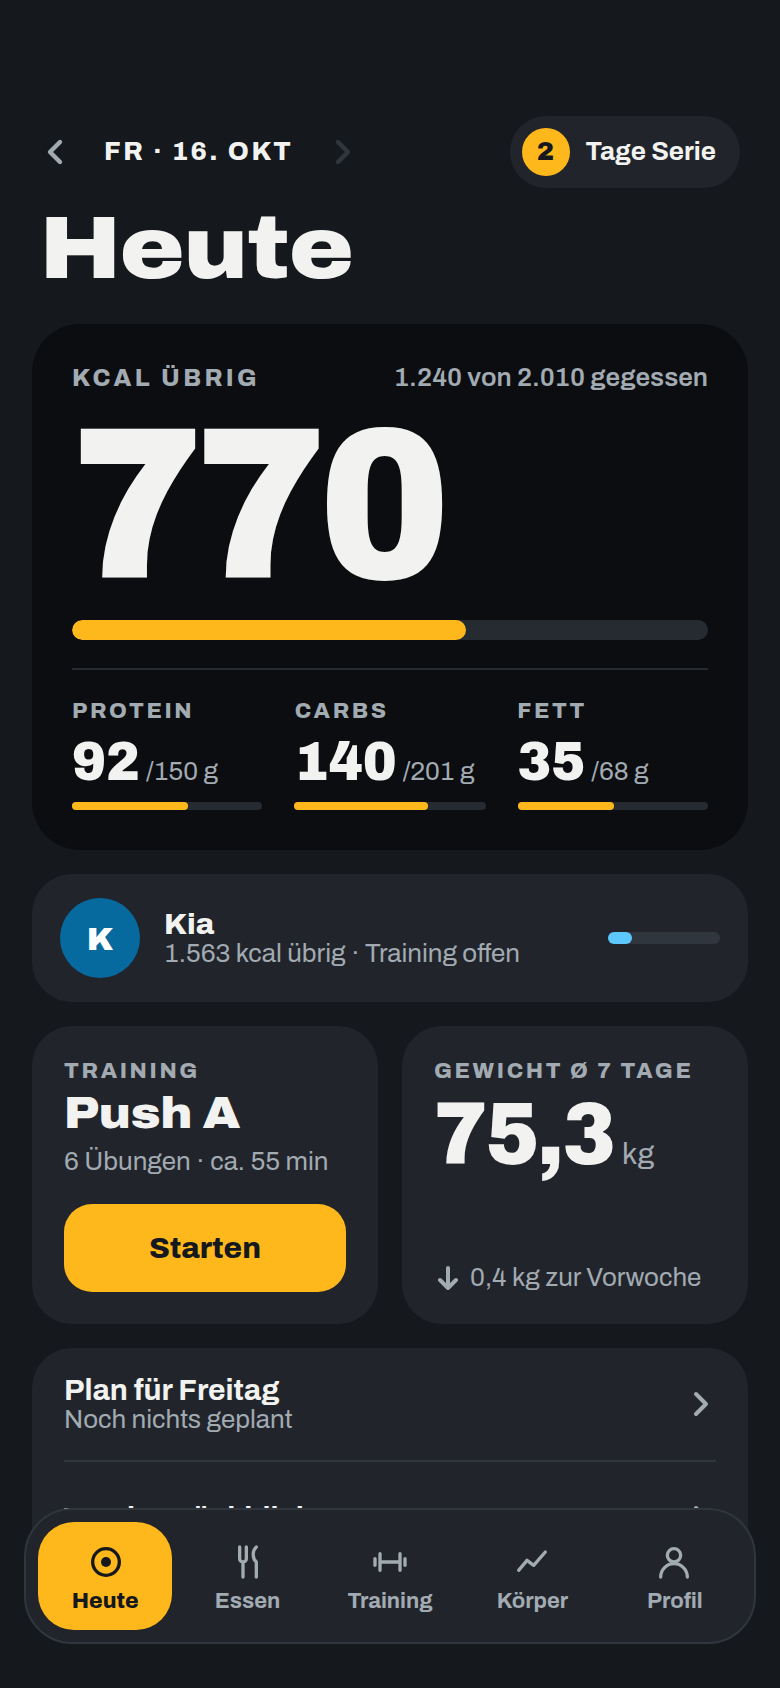
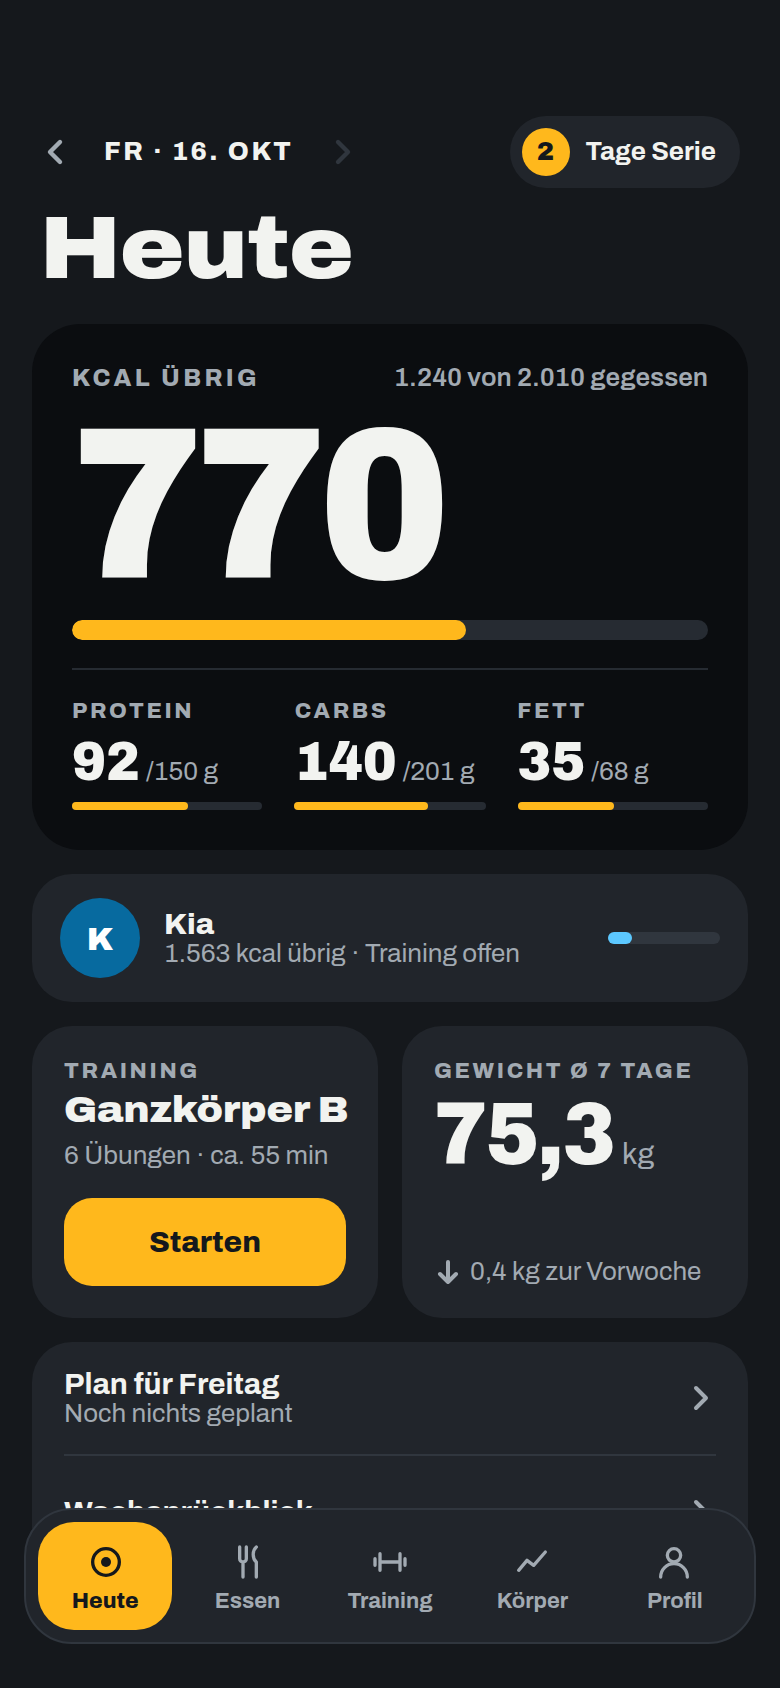
Design: Entwürfe 1.6 aktualisiert (1.6.0.1)

diff --git a/docs/design/1.6/README.md b/docs/design/1.6/README.md
@@ -2,7 +2,7 @@
 
 Mockups aus der Design-Phase (iPhone 390 × 844, je hell und dunkel).
 Bei Widerspruch zwischen Bild und Auftrag gilt der Auftrag. Beispieldaten und
-Platzhalter wie „Push A“ oder „[Dein Name]“ sind keine Vorgaben.
+Platzhalter wie „[Dein Name]“ oder Übungsnamen sind keine Vorgaben.
 
 ## 1.6.0 „Neuer Look“
 | Datei | Inhalt |
@@ -14,12 +14,12 @@ Platzhalter wie „Push A“ oder „[Dein Name]“ sind keine Vorgaben.
 | koerper | Körper mit Trendtafel |
 | profil | Profil als gruppierte Liste |
 | training-uebersicht | Training-Tab mit „Als Nächstes“ |
-| training-einheit | laufende Einheit (in 1.6.0 nur die Optik) |
+| training-einheit | laufende Einheit: in 1.6.0 nur die Optik (Kopf, Fortschrittssegmente, Satzzeilen, Pausenleiste). Haken, Aufwärmsätze, Steigerungshinweis und „Als Nächstes“ erst in 1.6.1 |
 
 ## 1.6.1 „Training & Komfort“
 | Datei | Inhalt |
 |---|---|
-| training-einheit | Satz abhaken, Aufwärmsätze, Steigerungshinweis |
+| training-einheit | Satz abhaken, Aufwärmsätze, Steigerungshinweis (Wdh. aufs untere Ziel), „Als Nächstes“ in der Pausenleiste |
 | zahlenfeld | eigenes Zahlenfeld statt System-Tastatur |
 | menge | Menge eintragen mit Zahlenfeld |
 | kalender | Monatsansicht |
